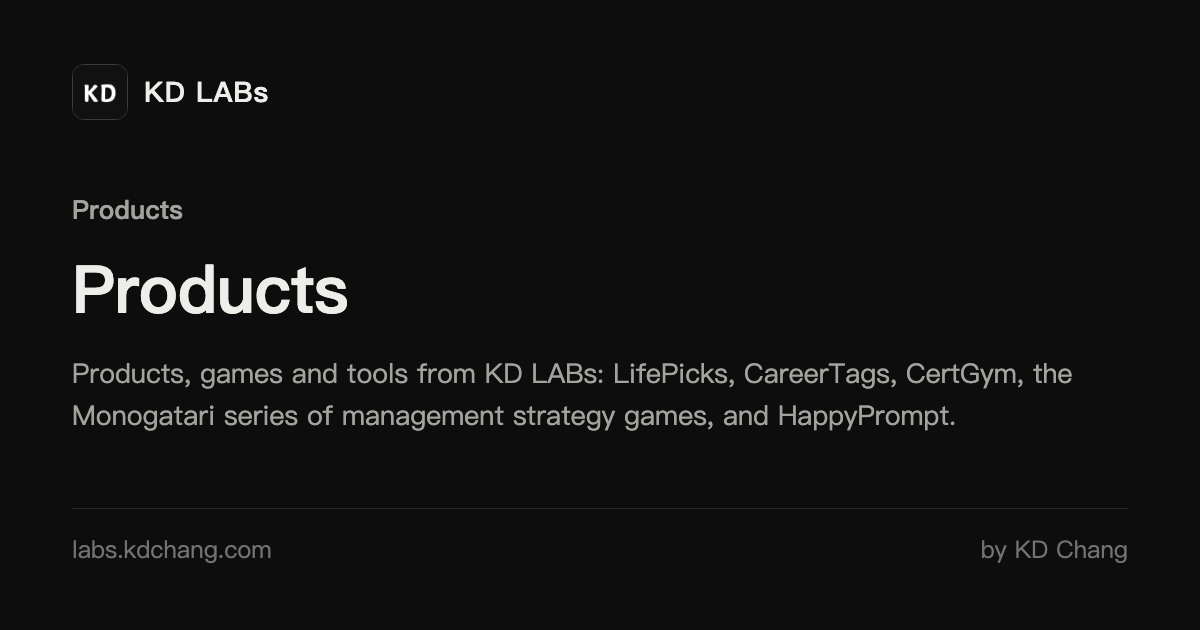
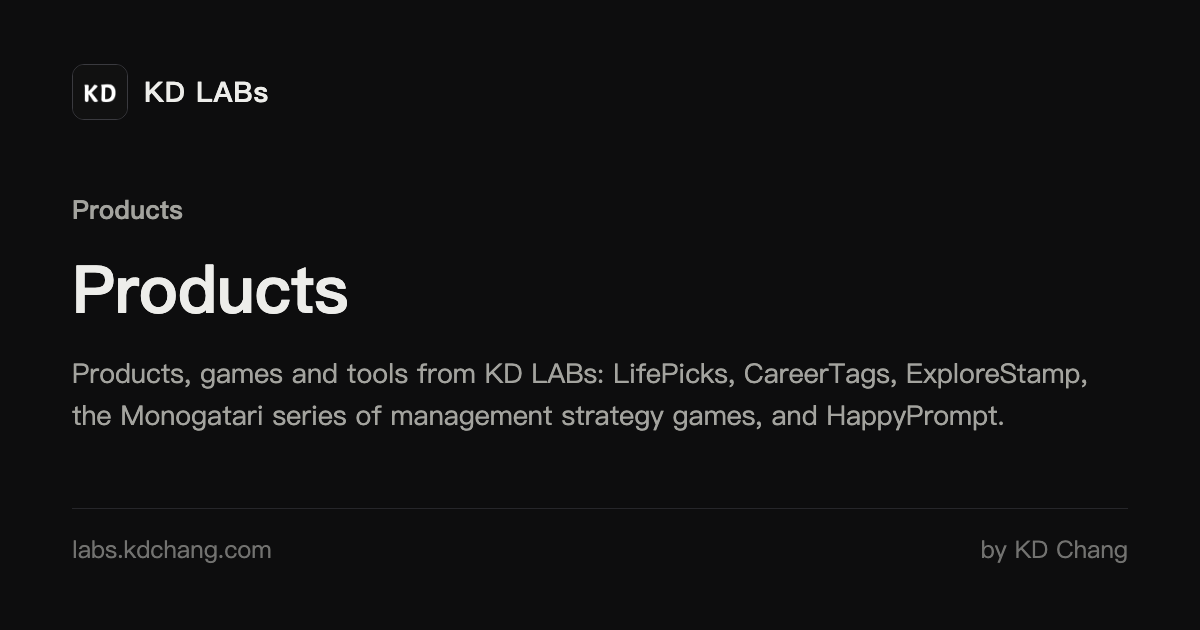
feat: hide CertGym from the site for now

Changed region(s): [[0.0617, 0.573, 0.8942, 0.6937]]

diff --git a/src/data/products.ts b/src/data/products.ts
@@ -30,6 +30,8 @@ export type Product = {
   url: string;
   category: Category;
   platforms: PlatformStatus[];
+  /** Temporarily left off the site (homepage, /products). Remove to show again. */
+  hidden?: boolean;
   en: {
     name: string;
     summary: string;
@@ -150,6 +152,7 @@ const products: Product[] = [
     image: "/img/projects/certgym.webp",
     url: "https://www.certgym.com/",
     category: "product",
+    hidden: true,
     platforms: [
       { platform: "ios", upcoming: true },
       { platform: "android", upcoming: true },
@@ -286,11 +289,13 @@ export function localizedCategories(locale: string): CategoryInfo[] {
 }
 
 export function localizedProducts(locale: string): LocalizedProduct[] {
-  return products.map(({ en, ...zh }) =>
-    asLocale(locale) === "en"
-      ? { ...zh, ...en, url: en.url ?? zh.url }
-      : zh,
-  );
+  return products
+    .filter((product) => !product.hidden)
+    .map(({ en, ...zh }) =>
+      asLocale(locale) === "en"
+        ? { ...zh, ...en, url: en.url ?? zh.url }
+        : zh,
+    );
 }
 
 export function productsIn(

diff --git a/src/pages/products.tsx b/src/pages/products.tsx
@@ -23,7 +23,7 @@ export default function Products(): ReactNode {
       description={translate({
         id: "products.meta.description",
         message:
-          "KD LABs 的產品、遊戲與工具：LifePicks 人生推書店、CareerTags 職涯書籤、CertGym 證照道館、物語系列經營策略遊戲與 HappyPrompt。",
+          "KD LABs 的產品、遊戲與工具：LifePicks 人生推書店、CareerTags 職涯書籤、ExploreStamp 探索印記、物語系列經營策略遊戲與 HappyPrompt。",
         description: "Meta description of the products page",
       })}
     >

diff --git a/i18n/en/docusaurus-plugin-content-pages/about.md b/i18n/en/docusaurus-plugin-content-pages/about.md
@@ -1,6 +1,6 @@
 ---
 title: About
-description: KD LABs is an independent product studio founded by KD Chang, making apps, browser extensions and web games — LifePicks, CareerTags, CertGym, ExploreStamp, the Monogatari series of management strategy games, and HappyPrompt.
+description: KD LABs is an independent product studio founded by KD Chang, making apps, browser extensions and web games — LifePicks, CareerTags, ExploreStamp, the Monogatari series of management strategy games, and HappyPrompt.
 ---
 
 # About
@@ -13,7 +13,7 @@ KD LABs is an independent product studio founded by [KD Chang](https://www.kdcha
 
 KD has worked as a senior engineer, a founder, a technical project manager and an engineering manager, spending about ten years in software development and seeing projects both succeed and fail. That experience taught him that good products come from understanding what users need, and from putting ideas in front of real users as early as possible.
 
-That's why KD LABs products are small, but each one starts from a real problem: wanting to read but not knowing which book to start with, learning workplace skills with no chance to practice them, getting the same exam questions wrong again and again, or saving great AI prompts and never finding them again.
+That's why KD LABs products are small, but each one starts from a real problem: wanting to read but not knowing which book to start with, learning workplace skills with no chance to practice them, or saving great AI prompts and never finding them again.
 
 ## What we make
 
@@ -21,7 +21,6 @@ That's why KD LABs products are small, but each one starts from a real problem: 
 
 - **[LifePicks](https://www.lifepicksbookstore.com/)**: An online indie bookstore that picks books by life theme. Spin the gacha machine to draw a book from six themes, each with key takeaways and an action plan, then add it to your shelf and track your reading. Available on the web, iOS, Android and as a Chrome extension.
 - **[CareerTags](https://www.careertags.com/)**: Find your skill gaps based on your career goals, learn from curated videos and podcasts, then turn soft skills into visible results through practice, a practice journal and STAR stories. The Chrome extension is available now; iOS and Android apps are coming soon.
-- **[CertGym](https://www.certgym.com/)**: A certification exam prep app with key concepts organized by the official exam outline, past exam questions, flashcards and a review list for questions you got wrong. iOS and Android versions are coming soon.
 - **[ExploreStamp](https://www.explorestamp.com/en/)**: A stamp-collecting travel app. Explore sights through themed routes, check in by location at the spot to collect its stamp, and turn it into a postcard. No sign-in needed and works offline. iOS and Android versions are coming soon.
 
 ### Games
